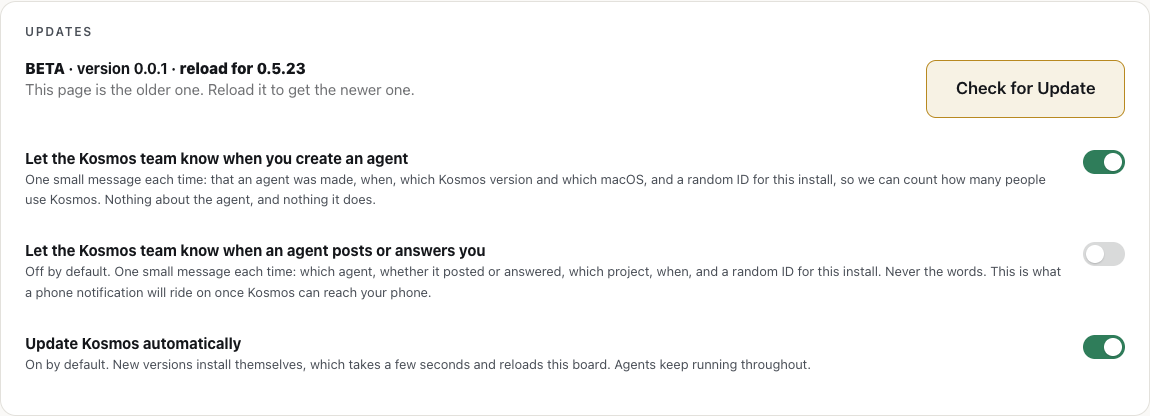
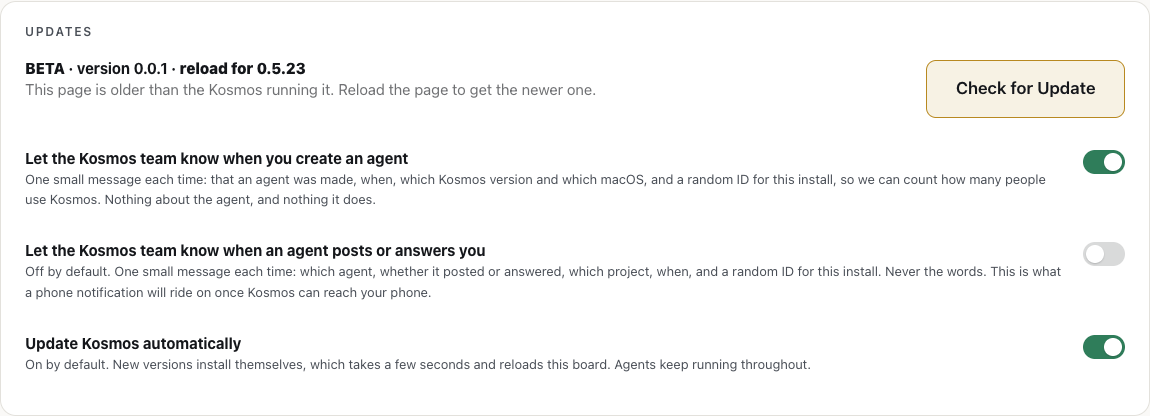
updates-stale-691 -- address challenge-loop iteration 4 findings
The sentence stands alone for a screen reader (older than what is inside it).
The browser check pins the engine-stale notice off in the poll stub so the
toast assertion cannot fail for a cause unrelated to #691, and its comments
say what it can and cannot catch.

Changed region(s): [[0.0913, 0.1875, 0.5174, 0.25]]

diff --git a/docs/browser-checks/render-updates-stale.js b/docs/browser-checks/render-updates-stale.js
@@ -24,8 +24,10 @@
  * and a read that lands after it looks like a regression. The press, the
  * fetch, the paint and the poll that repaints the build line are the page's
  * own. The answer shape (`running`, `reached`, `readable`) is the route's in
- * engine/update.js; a rename there would surface here as a stubbed field the
- * page ignores, so `served` is read from the real /api/status first.
+ * engine/update.js. `served` is read from the real /api/status first, so the
+ * stub cannot invent a version; a renamed field on the server would NOT be
+ * caught here (the page falls back to the polled version), only by the
+ * route's own tests.
  *
  *   AGENT_WORKFORCE_DATA=/tmp/us PORT=17372 node server.js &
  *   NODE_PATH="$HOME/work/pw-runtime/node_modules" \
@@ -72,6 +74,10 @@ function chk(ok, label, extra) {
       const data = await res.json();
       data.updateLook = { reached: true, readable: true, looked: true };
       data.update = null;
+      /* The engine-stale notice outranks the stale toast in the same slot and
+         is a fact about the sandboxed board's files, not about #691; pinned
+         off so the toast assertion below cannot fail for that cause. */
+      data.engine = null;
       await route.fulfill({ response: res, body: JSON.stringify(data), headers: { ...res.headers(), 'content-type': 'application/json' } });
     });
     await pg.goto(URL, { waitUntil: 'networkidle' });
@@ -86,9 +92,10 @@ function chk(ok, label, extra) {
     await pg.evaluate(([v]) => {
       document.querySelector('meta[name="kosmos-version"]').setAttribute('content', v);
     }, [baked]);
-    /* The build line is painted by the poll (every five seconds); wait for the
-       poll to see the new meta, so the line and the verdict are read from the
-       same world. */
+    /* The build line is painted by the poll (every five seconds). In the stale
+       state, wait for the poll to see the new meta so the line and the verdict
+       are read from the same world; in the current state the condition already
+       holds (baked equals served, the poll changes nothing). */
     await pg.waitForFunction(([s, v]) => {
       const t = (document.getElementById('build') || {}).textContent || '';
       return s === 'stale' ? /reload for/.test(t) : (t.indexOf(v) > -1 && !/reload for/.test(t));
@@ -102,9 +109,10 @@ function chk(ok, label, extra) {
     const before = await pg.$eval('#upd-line', (el) => el.textContent);
     chk(before === '', state + ': at rest the verdict line is quiet', JSON.stringify(before));
     if (state === 'stale') {
-      /* Cross-surface consistency, not a press effect: the poll drew the stale
-         toast when it saw the new meta, before any press. The card's sentence
-         points at this control, so it must be there before the sentence is. */
+      /* Cross-surface consistency, not a press effect: the toast and the card
+         read the same pageIsStale, and the poll drew the stale toast when it
+         saw the new meta, before any press. The sentence names no control on
+         purpose; this pins that the two surfaces agree on staleness. */
       const toast = await pg.$eval('#utoast-slot', (el) => el.innerText).catch(() => '');
       chk(/Kosmos updated/.test(toast) && /Reload/.test(toast), 'stale: before the press, the top-left toast already offers the reload', JSON.stringify(toast));
     }
@@ -112,7 +120,7 @@ function chk(ok, label, extra) {
     await pg.waitForFunction(() => !/Checking\.$/.test(document.getElementById('upd-line').textContent), null, { timeout: 12000 });
     const line = await pg.$eval('#upd-line', (el) => el.textContent);
     if (state === 'stale') {
-      chk(line === 'This page is the older one. Reload it to get the newer one.',
+      chk(line === 'This page is older than the Kosmos running it. Reload the page to get the newer one.',
         'stale: the press says reload, not "Up to date"', JSON.stringify(line));
       chk(!/Up to date/.test(line), 'stale: "Up to date" is not on the card', JSON.stringify(line));
     } else {

diff --git a/server.test.js b/server.test.js
@@ -10738,7 +10738,7 @@ test('with a newer version installed than the open page, Check for Update says r
     // The screenshot: page baked 0.5.22, server running 0.5.23, button pressed.
     let els = mk('0.5.22');
     asked('0.5.23', null, { reached: true, readable: true, looked: true });
-    assert.equal(els['upd-line'].textContent, 'This page is the older one. Reload it to get the newer one.',
+    assert.equal(els['upd-line'].textContent, 'This page is older than the Kosmos running it. Reload the page to get the newer one.',
       'a stale page was told it is up to date');
     assert.equal(els['upd-btn'].textContent, 'Check for Update', 'the control changed with the sentence');
     // CONTROL: the same press on a current page still gets the verdict. Without
@@ -10777,7 +10777,7 @@ test('with a newer version installed than the open page, Check for Update says r
         global.document, () => {}, running);
       return pressed['upd-line'].textContent;
     };
-    assert.equal(await press('0.5.22', '0.5.23'), 'This page is the older one. Reload it to get the newer one.',
+    assert.equal(await press('0.5.22', '0.5.23'), 'This page is older than the Kosmos running it. Reload the page to get the newer one.',
       'the real press on a stale page did not say reload');
     assert.equal(await press('0.5.23', '0.5.23'), 'Up to date.', 'CONTROL: the real press on a current page lost its verdict');
   } finally {

diff --git a/web/index.html b/web/index.html
@@ -8720,9 +8720,12 @@ function paintUpdateCard(running, offer, look) {
        engine-stale notice when the code on disk is newer than the process
        (no Reload there), so the sentence would send a person to a button
        that is not on screen. The browser's own reload is the remedy and is
-       always there; the toast offers the same when it is drawn. */
+       always there; the toast offers the same when it is drawn.
+       ⚠ AND IT STANDS ALONE. This node is the role="status" live region, so a
+       screen reader hears only this sentence, never the build line beside it:
+       "older" has to say older than what inside the sentence itself. */
     if (UPD_ASKED && pageIsStale(running)) {
-      put('This page is the older one. Reload it to get the newer one.');
+      put('This page is older than the Kosmos running it. Reload the page to get the newer one.');
     } else {
       put(UPD_ASKED ? 'Up to date.' : '');
     }

diff --git a/.claude/plans/updates-stale-691.md b/.claude/plans/updates-stale-691.md
@@ -2,11 +2,12 @@
 
 ## Finished looks like
 With a newer version installed than the page that is open (server on 0.5.23, page
-baked 0.5.22), pressing Check for Update writes "This page is the older one. Reload
-it to get the newer one." on the card line, never "Up to date." (No version in the
-sentence: the row above it already says "reload for 0.5.23". No pointer to the toast's
-Reload button: when the engine is also stale that slot shows the restart notice
-instead, and the browser's own reload is always there.)
+baked 0.5.22), pressing Check for Update writes "This page is older than the Kosmos
+running it. Reload the page to get the newer one." on the card line, never "Up to
+date." (No version in the sentence: the row above it already says "reload for 0.5.23".
+No pointer to the toast's Reload button: when the engine is also stale that slot shows
+the restart notice instead, and the browser's own reload is always there. The sentence
+stands alone, because the live region is what a screen reader hears.)
 With the page current, the same press still writes "Up to date." Nothing else on the
 card changes.
 
